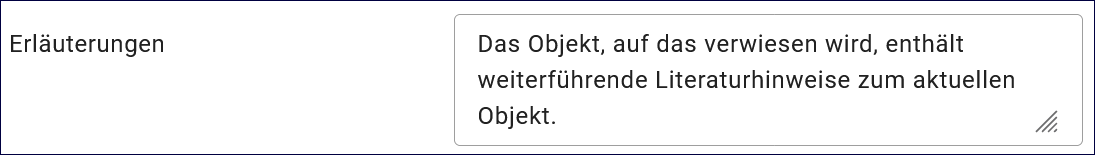
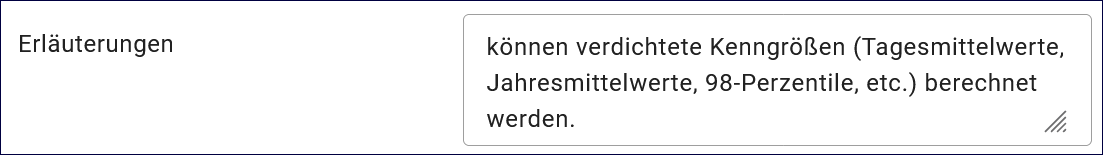
Aktualisierung

diff --git a/docs/ingrid-editor/erfassung/datensatztypen/datensatztyp-datensammlung.rst b/docs/ingrid-editor/erfassung/datensatztypen/datensatztyp-datensammlung.rst
@@ -49,6 +49,7 @@ Feld: Parameter
  
 Angabe der wichtigen Parameter der Datenbank oder Datensammlung. Um einen qualifizierten Einblick in die beschriebene Datensammlung oder Datenbank zu erhalten, werden hier die wesentlichen Parameter der gespeicherten Daten aufgeführt. Im Falle von Messdaten werden die wichtigsten Messparameter wie z. NOx, SO2, Windgeschwindigkeit und pH-Wert angegeben. Bei statistischen Erhebungen werden Erhebungsgrößen wie Wasserverbrauch pro Kopf und Bevölkerungsdichte angeführt. Im Falle von Modelldaten werden die Modellparameter, wie z. Meeresspiegel, CO2-Gehalt der Luft und Welttemperatur, dargestellt.
 
+Beispiel: 
 
 
 Feld: Ergänzenden Angaben
@@ -56,7 +57,7 @@ Feld: Ergänzenden Angaben
 
 Es können zusätzliche Angaben zu Parametern angegeben werden, wie zum Beispiel: Maßeinheiten, Genauigkeiten, Nachweisgrenzen, Probenmatrizen oder spezifische Angaben zur Messmethode.
 
-Beispiel: organische Gase (Benzol, Toluol, Xylol (flüchtige Aromaten, BTX))
+Beispiel: Wassertemperatur (°C) oder Wasserstand (cm)
 
 
 Feld: Methode / Datengrundlage
@@ -86,4 +87,4 @@ Abb.: Textfeld - Erläuterungen
 
 Weitere Informationen zur Datensammlung bzw. zur Datenbank.
 
-Beispiel: Datenbasis: 144 10-Minutenwerte pro Station, Messkomponente und Tag. Aus dieser Datenbasis können verdichtete Kenngrößen (Tagesmittelwerte, Jahresmittelwerte, 98-Perzentile, etc.) berechnet werden.
+Beispiel: Datengewinnung erfolgt im hydrologischen Messdienst, Datensammler, Beobachter
